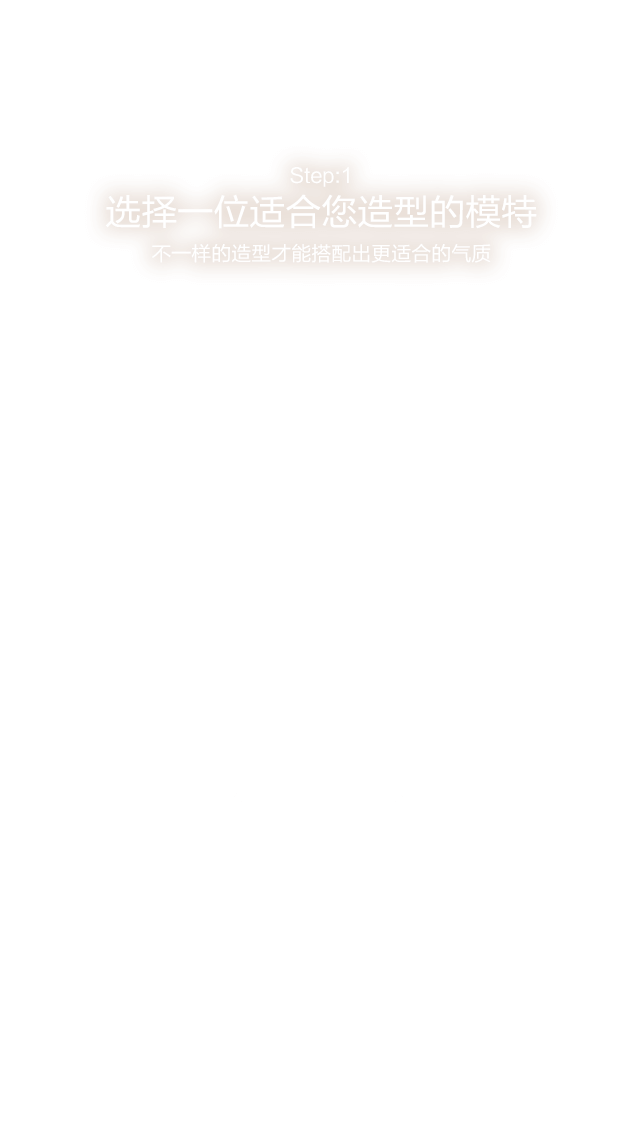
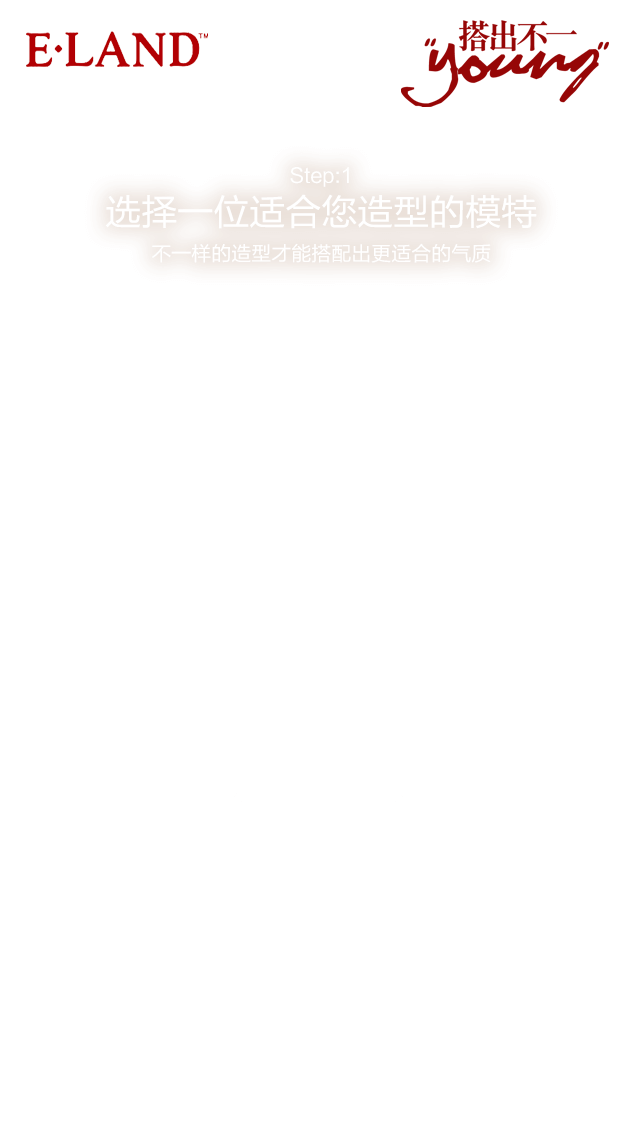
微信分享

Changed region(s): [[0.625, 0.0, 0.9375, 0.0929], [0.0312, 0.031, 0.3125, 0.0619]]

diff --git a/src/AppBundle/EventListener/OAuthListener.php b/src/AppBundle/EventListener/OAuthListener.php
@@ -65,9 +65,9 @@ class OAuthListener
 			$session->set('wx_nonce_str', $wx->nonceStr);
 			$session->set('wx_signature', $wx->signature);
 			$session->set('wx_share_url', $request->getUriForPath('/'));
-			$session->set('wx_title', 'Eland');
-			$session->set('wx_desc', 'Eland');
-			$session->set('wx_img_url', 'images/share.jpg');
+			$session->set('wx_title', '搭出不一"Young"');
+			$session->set('wx_desc', '年轻的Show场，由你搭配不一样的时尚');
+			$session->set('wx_img_url', 'bundles/app/default/m/images/share.jpg');
 		}
 	}
 	/*

diff --git a/src/AppBundle/Controller/DefaultController.php b/src/AppBundle/Controller/DefaultController.php
@@ -213,7 +213,7 @@ class DefaultController extends Controller
 	{
 		$user = $this->getUser();
 		$request->getSession()->set('wx_share_url', 'http://'.$request->getHost().$this->generateUrl('_m_vote', array(
-	            'user_id' => $user->getId(),
+	            'id' => $user->getId(),
 	        )));
 		$repository = $this->getDoctrine()->getRepository('AppBundle:Cover');
 		$query = $repository->createQueryBuilder('a')
